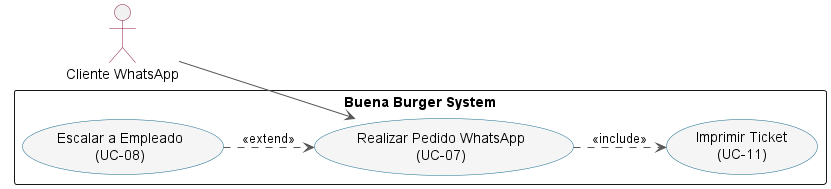
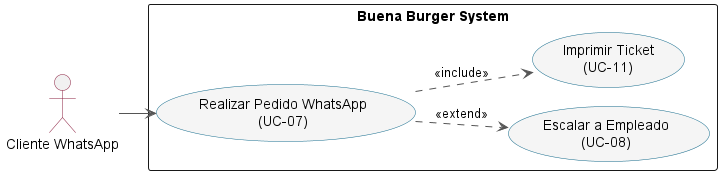
ambios readme

diff --git a/Presentacion-Final/README.md b/Presentacion-Final/README.md
@@ -138,96 +138,16 @@ Una aplicación web de **gestión integral de pedidos multicanal** con cinco pie
 
 </div>
 
-### Portal web del cliente
-
-**Landing**
-
-<div align="center"><img src="img/landing.png" alt="Landing"></div>
-
-**Carta**
-
-<div align="center"><img src="img/carta.png" alt="Carta"></div>
-
-**Modal de personalización**
-
-<div align="center"><img src="img/modal_personalizacion.png" alt="Modal de personalización"></div>
-
-**Carrito**
-
-<div align="center"><img src="img/carrito.png" alt="Carrito"></div>
-
-**Checkout · Paso 1 — Datos**
-
-<div align="center"><img src="img/checkout_1_datos.png" alt="Checkout datos"></div>
-
-**Checkout · Paso 2 — Fecha y hora**
-
-<div align="center"><img src="img/checkout_2_hora.png" alt="Checkout hora"></div>
-
-**Checkout · Paso 3 — Pago**
-
-<div align="center"><img src="img/checkout_3_pago.png" alt="Checkout pago"></div>
-
-**Inicio de sesión**
-
-<div align="center"><img src="img/login.png" alt="Login"></div>
-
-**Mi Perfil — historial**
-
-<div align="center"><img src="img/perfil_historial.png" alt="Perfil e historial"></div>
-
-### Sistema TPV
-
-**TPV — punto de venta**
-
-<div align="center"><img src="img/tpv_pos.png" alt="TPV"></div>
-
-### Panel de empleados
-
-**Panel de empleados — bloques del día**
-
-<div align="center"><img src="img/panel_empleados.png" alt="Panel de empleados"></div>
-
-### Panel de administración
-
-**Pedidos**
-
-<div align="center"><img src="img/admin_pedidos.png" alt="Admin pedidos"></div>
-
-**Estadísticas**
-
-<div align="center"><img src="img/admin_estadisticas.png" alt="Admin estadísticas"></div>
-
-**Carta**
-
-<div align="center"><img src="img/admin_carta.png" alt="Admin carta"></div>
-
-**Empleados**
-
-<div align="center"><img src="img/admin_empleados.png" alt="Admin empleados"></div>
-
-**Calendario de bloques**
-
-<div align="center"><img src="img/admin_calendario.png" alt="Admin calendario"></div>
-
-### Asistente WhatsApp
-
-**Conversación WhatsApp**
-
-<div align="center"><img src="img/whatsapp_chat.png" alt="Conversación WhatsApp"></div>
-
 ---
 
 ## 9. Validación — una parte del sistema ya está en producción
 
-La hipótesis se considera **verificada**: la recepción de pedidos se automatiza vía web y WhatsApp con IA, los errores de las comandas a mano desaparecen (cada pedido queda registrado y validado por el servidor), el sistema de bloques controla la capacidad de cocina en tiempo real, y el canal telefónico se mantiene guiado por el TPV.
+La propuesta de solución **se valida en la práctica**: la recepción de pedidos se automatiza vía web y WhatsApp con IA, los errores de las comandas a mano desaparecen (cada pedido queda registrado y validado por el servidor), el sistema de bloques controla la capacidad de cocina en tiempo real, y el canal telefónico se mantiene guiado por el TPV.
 
 La validación se apoyó en dos vías complementarias:
 
 1. **Sprint Reviews con el propietario** de Buena Burger como *Product Owner*, verificando sobre datos reales los flujos de los casos de uso de mayor prioridad en cada incremento.
 2. **Despliegue real de `buenaburger-pos-v1`** —el núcleo de TPV y lógica de bloques de producción—, que **lleva en uso en el local gestionando los pedidos de cada noche de servicio**. Es la evidencia de validación más sólida: ha permitido detectar y corregir, bajo carga y uso reales, comportamientos no previstos en el análisis inicial.
-
-> **Matiz importante.** Lo que está en producción es **solo el núcleo** (POS + bloques de producción + impresión), **no** el portal web público ni el asistente de WhatsApp con IA. El sistema completo aún no se ha desplegado por **motivos legales** —RGPD y la adaptación pendiente a **VERI\*FACTU**—, que es precisamente la primera línea de trabajo futuro.
 
 Esta validación en producción es la respuesta a la ausencia de una suite de pruebas automatizadas: el núcleo crítico se ha probado en condiciones reales de servicio, no solo en entorno de desarrollo.
 
@@ -239,8 +159,6 @@ Esta validación en producción es la respuesta a la ausencia de una suite de pr
 - **Frontend sin framework:** cero dependencias y carga inmediata, a cambio de gestionar el estado manualmente. Sostenible para un equipo sin experiencia en frameworks.
 - **NoSQL para pedidos personalizables:** el esquema documental simplifica las líneas con personalizaciones variables; coste: agregaciones complejas para estadísticas.
 - **Encapsulación del proveedor de IA:** toda la lógica en `ia.service.js`; el proveedor puede sustituirse sin tocar la arquitectura.
-
-> **Limitación reconocida:** ausencia de una suite de pruebas automatizadas. La validación se apoyó en Sprint Reviews y en el uso real de `buenaburger-pos-v1`.
 
 ---
 
@@ -256,3 +174,11 @@ Esta validación en producción es la respuesta a la ausencia de una suite de pr
 | Fidelización | Baja |
 | Integración con inventario | Baja |
 | Analítica y predicción de demanda | Baja |
+
+---
+
+<div align="center">
+
+### Ha sido un placer. Muchas gracias al tribunal por su atención.
+
+</div>